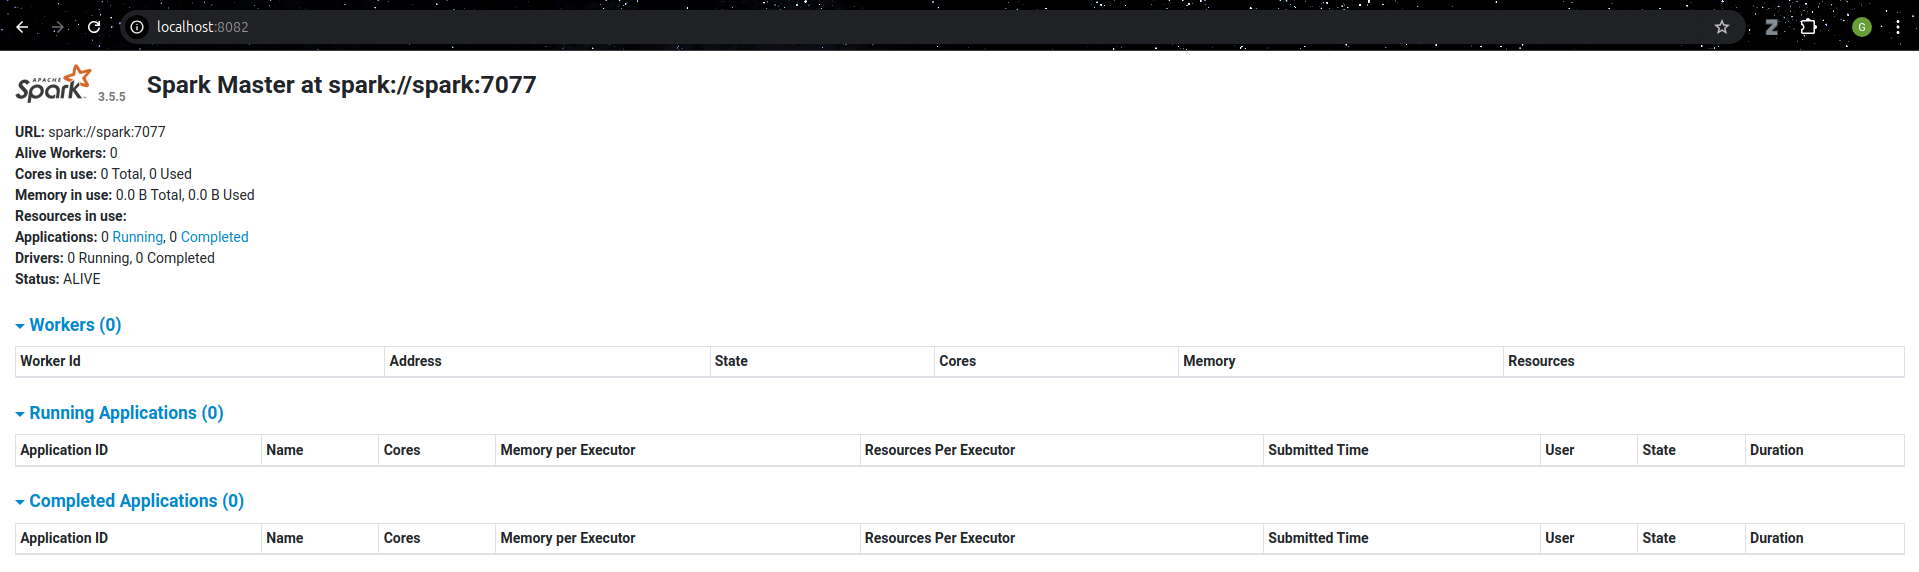
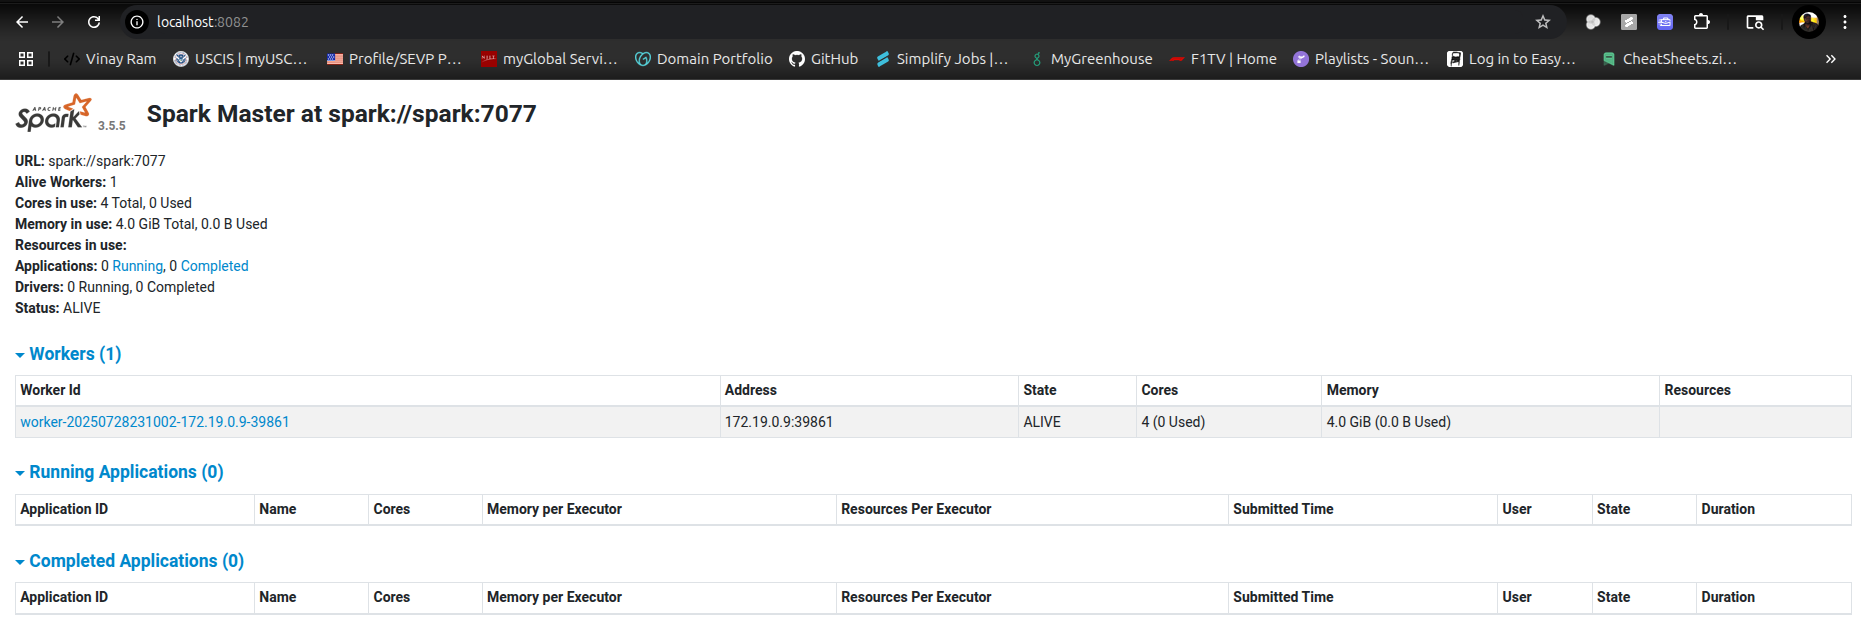
added spark worker node scaling and fixed spark ui;

diff --git a/README.md b/README.md
@@ -35,7 +35,6 @@ docker compose up -d minio
 
 **Note:**
 - On startup, files in `data/` are seeded into bucket `seed`.
-
 ![Alt](images/minio_init.jpg)
 
 
@@ -54,7 +53,6 @@ docker compose up -d postgres pgadmin
 **Note:**
 - The default database schema in postgres is set to `public` so all the tables created by Nessie/Airflow can be found under this database schema.
 - To view this database in pgAdmin the credentials are (user:`pgadmin` | password: `pgadmin`)
-
 ![Alt](images/pgadmin_cred.jpg)
 
 ## 3. Nessie Catalog
@@ -67,7 +65,6 @@ Project Nessie offers a Git-like catalog for table versions (e.g., Apache Iceber
 docker compose up -d nessie
 ```
 - Nessie UI: http://localhost:19120
-
 ![Alt](images/nessie_ui.png)
 
 ## 4. Unity Catalog OSS (Server & UI)
@@ -81,7 +78,6 @@ docker compose up -d unity unity-ui
 ```
 - Unity Server API: http://localhost:8085
 - Unity UI: http://localhost:3000
-
 ![Alt](images/unity_ui.jpg)
 
 **Note:**
@@ -100,19 +96,39 @@ Spark is a multi-language big data processing enginer and this sevice runs a Spa
 
 **Setup:**
 ```bash
-docker compose up -d spark
+# To run a spark cluster with single worker node
+docker compose up -d spark spark-history spark-worker
+
+# Or you can run the following make command
+make up_spark
 ```
-- Jupyter Lab: http://localhost:8888
+
 - Spark Master UI: http://localhost:8082
+![Alt](images/spark_master_ui.png)
+
 - Spark Master for submitting jobs: http://localhost:7077
 - Spark History Server: http://localhost:18080
+![Alt](images/spark_history.png)
+![Alt](images/spark_job_ui.png)
 
-![Alt](images/spark_master_ui.png)
+- Jupyter Lab: http://localhost:8888
+![Alt](images/jupyter_lab.png)
+
+**Scaled Setup:**
+```bash
+# To run a spark cluster with three worker nodes
+docker compose up -d spark spark-history spark-worker --scale spark-worker=3
+
+# Or you can run the following make command
+make up_spark_scaled
+```
+
+- Spark Master UI (Scaled with 3 worker nodes): http://localhost:8082
+![Alt](images/spark_master_ui_scaled.png)
 
 **Note:**
 - **The integration with unity Catalog is still a work-in-progress**.
 - The python scripts in `spark/seed/` directory can be accessed in the Jupyter Notebook environment to run.
-
 ![Alt](images/jupyter_seed.png)
 
 ## 6. Trino
@@ -131,13 +147,11 @@ docker exec -it trino /bin/trino
 make run_trino
 ```
 - Trino UI: http://localhost:8080
-
 ![Alt](images/trino_ui.jpg)
 
 **Usage:**
 - The trino server configs and the connectors are located in `trino/etc/` directory.
 - You can also connect the trino cluster to your DBeaver Community edition for a GUI to run quries.
-
 ![Alt](images/trino_dbeaver.jpg)
 
 ## 7. Apache Airflow
@@ -153,7 +167,6 @@ docker compose up -d airflow-apiserver airflow-scheduler airflow-dag-processor a
 make up_airflow
 ```
 - Airflow Web UI: http://localhost:8088 (user: `airflow` | password: `airflow`)
-
 ![Alt](images/airflow_ui.jpg)
 
 ## Teardown
